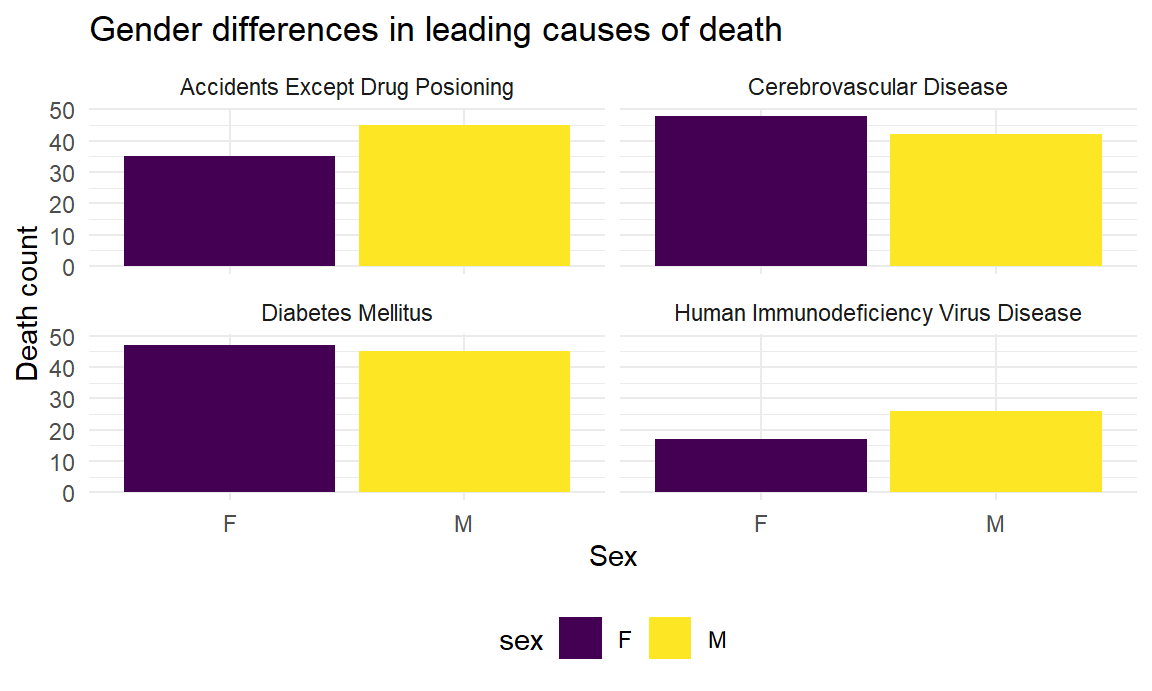
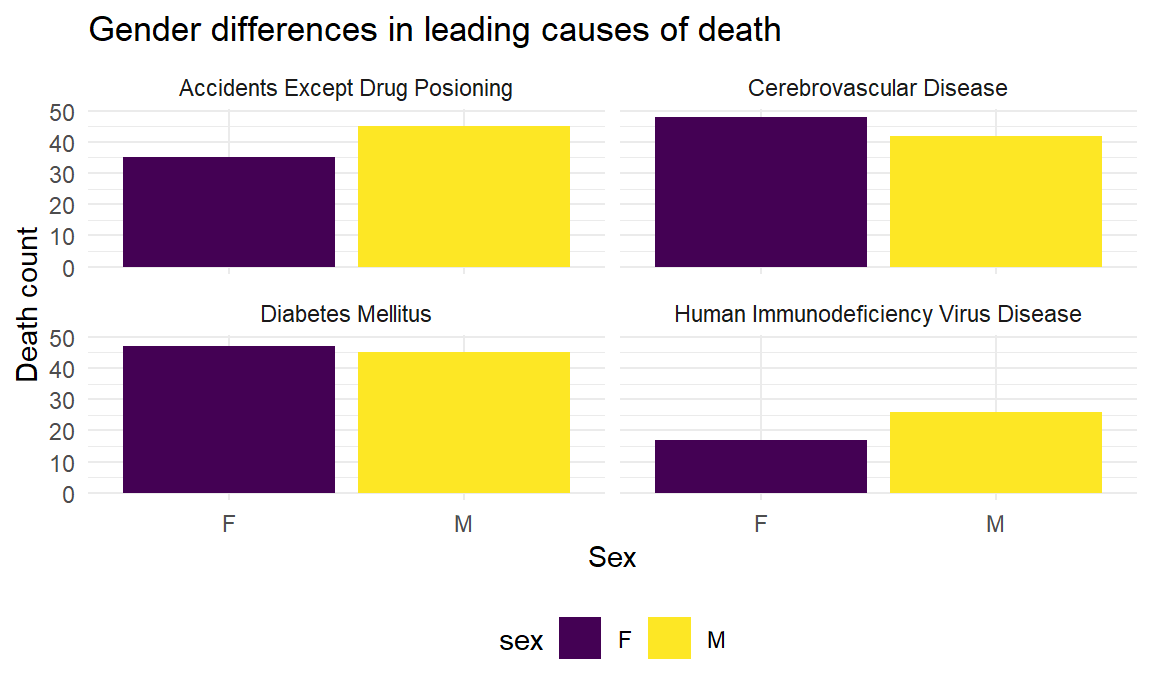
Animated plot for leading causes in the US!

diff --git a/analysis.html b/analysis.html
@@ -407,7 +407,7 @@ div.tocify {
 <h2><strong>Top 10 Leading Causes of Death</strong></h2>
 <div id="what-are-the-top-10-leading-causes-of-death-in-the-us" class="section level3">
 <h3>What are the top 10 leading causes of death in the US?</h3>
-<p><img src="analysis_files/figure-html/us%20plot%201-1.png" width="90%" /></p>
+<p><img src="analysis_files/figure-html/us%20plot%201-1.gif" width="90%" /></p>
 </div>
 <div id="what-are-the-top-10-leading-causes-of-death-in-nyc" class="section level3">
 <h3>What are the top 10 leading causes of death in NYC?</h3>
